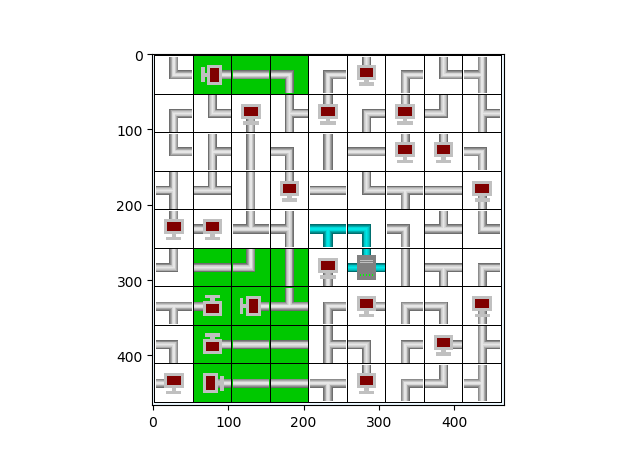
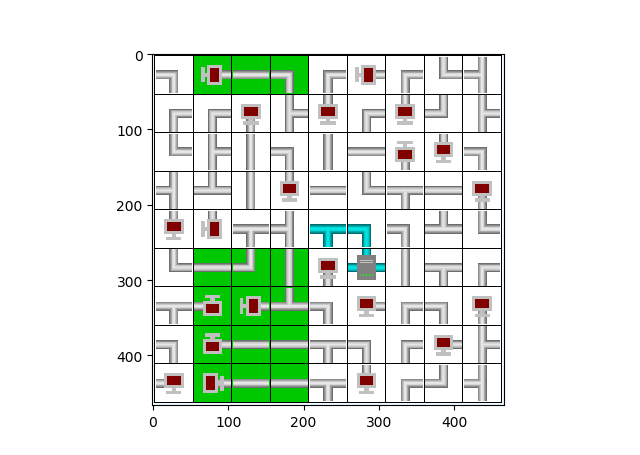
Forgot to rotate unsolved tiles in part solver display

diff --git a/netwalk/tiling.py b/netwalk/tiling.py
@@ -179,8 +179,6 @@ def rotate_part_solved_image_segments(tset: tileset) -> Image:
     rot_img = tset.source_image.copy() # do not modify source_image attribute
     for (i, row) in enumerate(tset.tiles):
         for (j, t) in enumerate(row):
-            if not t.solved:
-                continue
             (xs, ys), (xe, ye) = tset.segments[i][j]
             r = t.rotation
             r *= -1
@@ -188,8 +186,9 @@ def rotate_part_solved_image_segments(tset: tileset) -> Image:
             t_img = t.image
             t_bg_ind = np.where(np.all(t_img == [255,255,255], axis=-1))
             t_bg_co = list(zip(t_bg_ind[0], t_bg_ind[1]))
-            for coord in t_bg_co:
-                t_img[coord] = [0,200,0]
+            if t.solved:
+                for coord in t_bg_co:
+                    t_img[coord] = [0,200,0]
             rot_img[ys:ye+1, xs:xe+1] = np.rot90(t_img, r)
     return rot_img
 

diff --git a/netwalk/solve_tile.py b/netwalk/solve_tile.py
@@ -32,6 +32,17 @@ def tile_solvers(t):
                         o_inv = (o + 2) % 4
                         assert type(t_a.adjacent_tiles[o_inv]) != terminal
                         t_a.fix_connection([o_inv])
+    if type(t.component) == c_wire:
+        print(f"Now examining c_wire at {t.row},{t.col}")
+        for (a, t_a) in t.adjacent_tiles.items():
+            if t_a.component is None:
+                continue
+            a_inv = (a + 2) % 4
+            if t_a.solved:
+                if not t_a.component.directions[a_inv]:
+                    t.set_avoid([a])
+                else:
+                    t.fix_connection([a])
     # ==REMOVED BELOW==: tried to fix erroneous (unavailable) sides => error
     # needed to solve, so adding back with check: ``np.sum(fixed, avoid) < 4``
     for (a, t_a) in t.adjacent_tiles.items():

diff --git a/netwalk/imaging.py b/netwalk/imaging.py
@@ -38,10 +38,10 @@ def read_game_image():
     # - imread doesn't accept pathlib PosixPath objects?
     # TODO: have I forgotten to add an 'interpret path' call?
     # game_img = imread(data_dir / 'lgo_netwalk_example_game_easy.png')
-    game_img = imread(data_dir + 'lgo_netwalk_example_game_easy.png')
+    # game_img = imread(data_dir + 'lgo_netwalk_example_game_easy.png')
     # game_img = imread(data_dir + 'lgo_netwalk_example_game_easy_2.png')
     # game_img = imread(data_dir + 'lgo_netwalk_example_game_medium.png')
-    # game_img = imread(data_dir + 'lgo_netwalk_example_game_expert.png')
+    game_img = imread(data_dir + 'lgo_netwalk_example_game_expert.png')
     return game_img
 
 def give_me_the_tiles():
